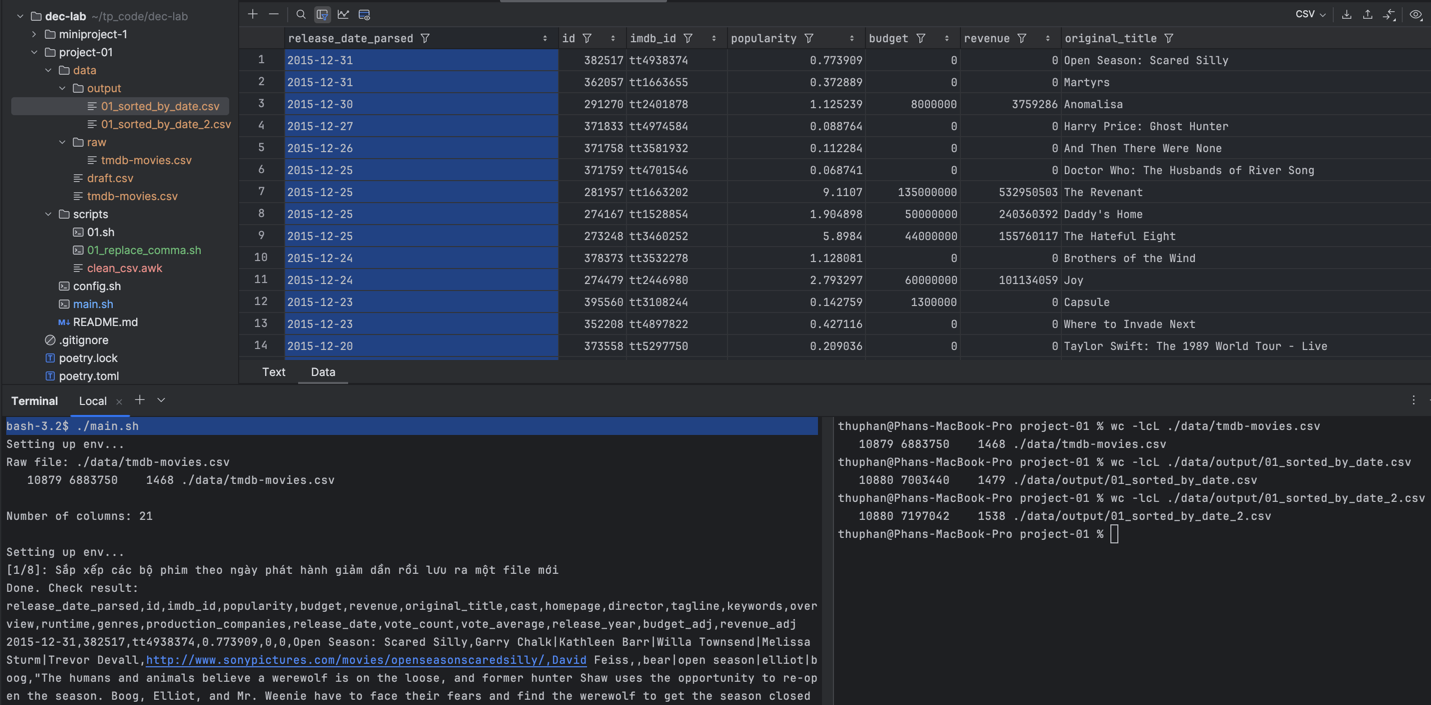
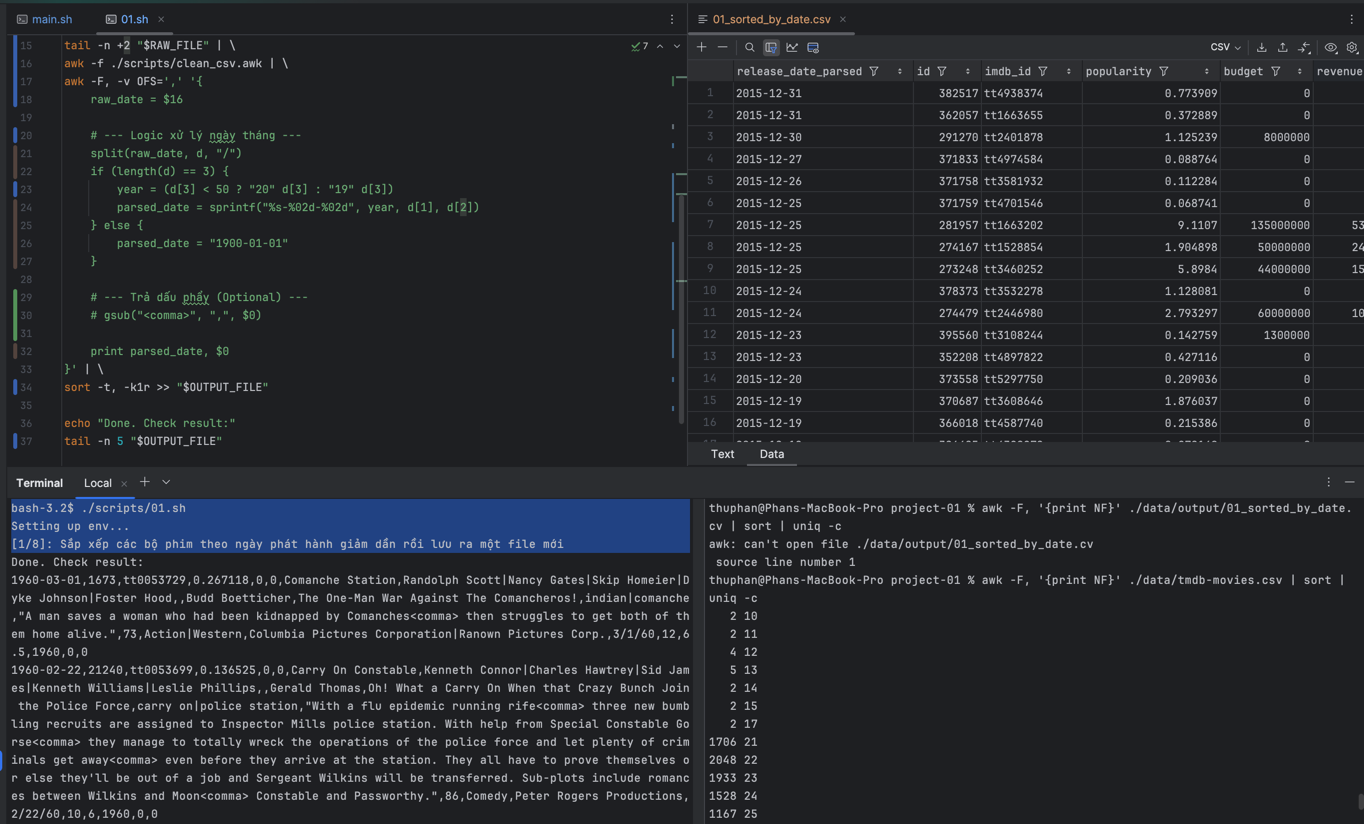
[prj1] fix csv line breaks & docs

diff --git a/project-01/result.md b/project-01/result.md
@@ -1,49 +1,34 @@
-# Project 1 (Linux CMD)
 
-Yêu cầu: https://unigap-tech-coaching.notion.site/Linux-CMD-Project-11e04bc026004c3298e85bba8919630a
-
-> Data: https://raw.githubusercontent.com/yinghaoz1/tmdb-movie-dataset-analysis/master/tmdb-movies.csv
-Dữ liệu trên đang được đặt trên Linux server, cần team Data Engineer sử dụng command line Linux hỗ trợ các tác vụ sau để có các thông tin cơ bản về dữ liệu
-
-### 1. Sắp xếp các bộ phim theo ngày phát hành giảm dần rồi lưu ra một file mới
-![img.png](docs/images/01.png)
-```bash
+1. Sắp xếp các bộ phim theo ngày phát hành giảm dần rồi lưu ra một file mới
+```csv
 release_date_parsed,id,imdb_id,popularity,budget,revenue,original_title,cast,homepage,director,tagline,keywords,overview,runtime,genres,production_companies,release_date,vote_count,vote_average,release_year,budget_adj,revenue_adj
 2015-12-31,382517,tt4938374,0.773909,0,0,Open Season: Scared Silly,Garry Chalk|Kathleen Barr|Willa Townsend|Melissa Sturm|Trevor Devall,http://www.sonypictures.com/movies/openseasonscaredsilly/,David Feiss,,bear|open season|elliot|boog,"The humans and animals believe a werewolf is on the loose, and former hunter Shaw uses the opportunity to re-open the season. Boog, Elliot, and Mr. Weenie have to face their fears and find the werewolf to get the season closed permanently.",85,Animation|Comedy|Family|Adventure,Sony Pictures Animation,12/31/15,33,5.6,2015,0,0
 2015-12-31,362057,tt1663655,0.372889,0,0,Martyrs,Troian Bellisario|Bailey Noble|Kate Burton|Caitlin Carmichael|Melissa Tracy,,Kevin Goetz|Michael Goetz,,child abuse|sadism|female friendship|afterlife|buried alive,A woman and her childhood friend seek out revenge on those who victimized and abused them.,86,Drama|Horror|Thriller,Blumhouse Productions|The Safran Company|Temple Hill Entertainment,12/31/15,43,5,2015,0,0
 ...
 1960-01-01,23220,tt0053677,0.333643,0,0,The Brides of Dracula,Peter Cushing|Martita Hunt|Yvonne Monlaur|Freda Jackson|David Peel,,Terence Fisher,He Turned Innocent Beauty Into Unspeakable Horror.,dracula|hammer horror|van helsing,"A young teacher on her way to a position in Transylvania helps a young man escape the shackles his mother has put on him. In so doing she innocently unleashes the horrors of the undead once again on the populace<comma> including those at her school for ladies. Luckily for some<comma> Dr Van Helsing is already on his way.",85,Horror,Hammer Film Productions|Hotspur Film Productions Ltd.,1/1/60,19,6.6,1960,0,0
 ```
-### 2. Lọc ra các bộ phim có đánh giá trung bình trên 7.5 rồi lưu ra một file mới
-![img.png](docs/images/02.png)
-```bash
+2. Lọc ra các bộ phim có đánh giá trung bình trên 7.5 rồi lưu ra một file mới
+
+Tổng: 350 phim
+```csv
 id,imdb_id,popularity,budget,revenue,original_title,cast,homepage,director,tagline,keywords,overview,runtime,genres,production_companies,release_date,vote_count,vote_average,release_year,budget_adj,revenue_adj
 286217,tt3659388,7.6674,108000000,595380321,The Martian,Matt Damon|Jessica Chastain|Kristen Wiig|Jeff Daniels|Michael PeÃ±a,http://www.foxmovies.com/movies/the-martian,Ridley Scott,Bring Him Home,based on novel|mars|nasa|isolation|botanist,"During a manned mission to Mars<comma> Astronaut Mark Watney is presumed dead after a fierce storm and left behind by his crew. But Watney has survived and finds himself stranded and alone on the hostile planet. With only meager supplies<comma> he must draw upon his ingenuity<comma> wit and spirit to subsist and find a way to signal to Earth that he is alive.",141,Drama|Adventure|Science Fiction,Twentieth Century Fox Film Corporation|Scott Free Productions|Mid Atlantic Films|International Traders|TSG Entertainment,9/30/15,4572,7.6,2015,99359956.2816192,547749654.310152
 ...
 36540,tt0061199,0.253437,0,0,Winnie the Pooh and the Honey Tree,Sterling Holloway|Junius Matthews|Sebastian Cabot|Howard Morris|Hal Smith,,Wolfgang Reitherman,,,Christopher Robin's bear attempts to raid a beehive in a tall tree.,25,Animation|Family,,1/1/66,12,7.9,1966,0,0
 ```
-### 3. Tìm ra phim nào có doanh thu cao nhất và doanh thu thấp nhất
-![img.png](docs/images/03.png)
-```bash
-[3/8]: Tìm ra phim nào có doanh thu cao nhất và doanh thu thấp nhất
---------------------------------------------------
------ Phim có doanh thu CAO NHẤT:
- -> [Doanh thu: $2781505847] Avatar
+3. Tìm ra phim nào có doanh thu cao nhất và doanh thu thấp nhất
 
------ Phim có doanh thu THẤP NHẤT:
- -> [Doanh thu: $2] Mallrats
- -> [Doanh thu: $2] Shattered Glass
-```
-### 4. Tính tổng doanh thu tất cả các bộ phim
-![img.png](docs/images/04.png)
-```bash
-[4/8]: Tính tổng doanh thu tất cả các bộ phim
---------------------------------------------------
+Phim có doanh thu CAO NHẤT: [Doanh thu: $2781505847] Avatar
+
+Phim có doanh thu THẤP NHẤT:
+  [Doanh thu: $2] Mallrats
+  [Doanh thu: $2] Shattered Glass
+
+4. Tính tổng doanh thu tất cả các bộ phim
 432720192875
-```
-### 5. Top 10 bộ phim đem về lợi nhuận cao nhất
-![img.png](docs/images/05.png)
-```bash
+
+5. Top 10 bộ phim đem về lợi nhuận cao nhất
+
                                             Avatar | 2544505847
                       Star Wars: The Force Awakens | 1868178225
                                            Titanic | 1645034188
@@ -54,38 +39,15 @@ id,imdb_id,popularity,budget,revenue,original_title,cast,homepage,director,tagli
                            Avengers: Age of Ultron | 1125035767
                                             Frozen | 1124219009
                                            The Net | 1084279658
-```
 
-```
-[5/8]: Top 10 bộ phim đem về lợi nhuận cao nhất
------------------------------------------------------------------
-                                            Avatar | 2544505847
-                      Star Wars: The Force Awakens | 1868178225
-                                           Titanic | 1645034188
-                                    Jurassic World | 1363528810
-                                         Furious 7 | 1316249360
-                                      The Avengers | 1299557910
-      Harry Potter and the Deathly Hallows: Part 2 | 1202817822
-                           Avengers: Age of Ultron | 1125035767
-                                            Frozen | 1124219009
-                                           The Net | 1084279658
-```
 
-### 6. Đạo diễn nào có nhiều bộ phim nhất và diễn viên nào đóng nhiều phim nhất
-![img.png](docs/images/06.png)
+6. Đạo diễn nào có nhiều bộ phim nhất và diễn viên nào đóng nhiều phim nhất
 
-```bash
-[6/8]: Đạo diễn nào có nhiều bộ phim nhất và diễn viên nào đóng nhiều phim nhất
---- Đạo diễn: 
-  46 Woody Allen
---- Diễn viên: 
-  72 Robert De Niro
-```
-### 7. Thống kê số lượng phim theo các thể loại. Ví dụ có bao nhiêu phim thuộc thể loại Action, bao nhiêu thuộc thể loại Family, ….
+Đạo diễn: Woody Allen (46)
+Diễn viên: 72 Robert De Niro (72)
 
-![img.png](docs/images/07.png)
-```bash
-[7/8]: Thống kê số lượng phim theo các thể loại.
+7. Thống kê số lượng phim theo các thể loại. Ví dụ có bao nhiêu phim thuộc thể loại Action, bao nhiêu thuộc thể loại Family, ….
+
 4758 Drama
 3788 Comedy
 2905 Thriller
@@ -106,6 +68,3 @@ id,imdb_id,popularity,budget,revenue,original_title,cast,homepage,director,tagli
  188 Foreign
  167 TV Movie
  165 Western
-```
-### 8. Idea của bạn để có thêm những phân tích cho dữ liệu?
-
